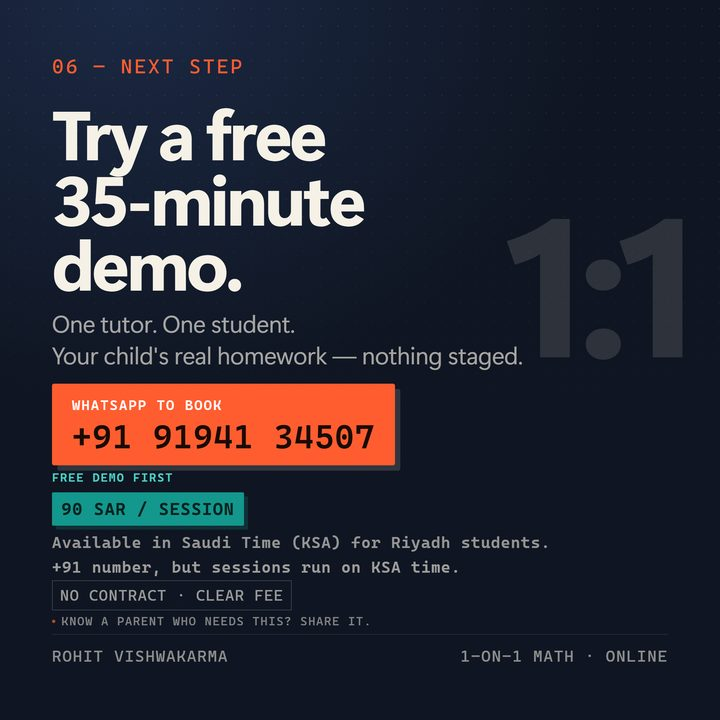
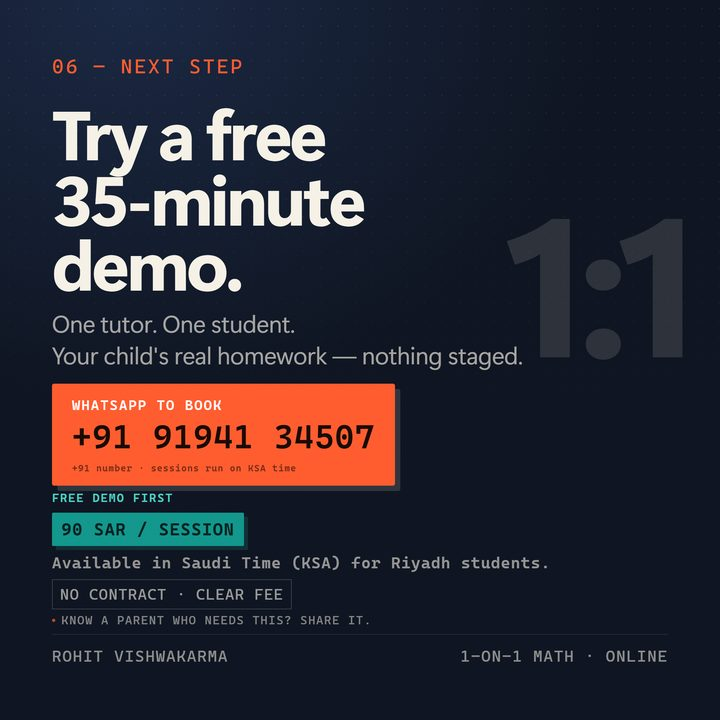
Move KSA phone note inside the WhatsApp CTA box

Changed region(s): [[0.0611, 0.6417, 0.7639, 0.8861]]

diff --git a/nextgen-creative-kit-riyadh-45.html b/nextgen-creative-kit-riyadh-45.html
@@ -781,11 +781,11 @@
           <div class="s6-cta">
             <div class="lbl">WHATSAPP TO BOOK</div>
             <div class="num">+91 91941 34507</div>
+            <div class="s6-phone-note">+91 number · sessions run on KSA time</div>
           </div>
           <div class="s6-free">FREE DEMO FIRST</div>
           <div class="s6-price">90 SAR / SESSION</div>
           <div class="s6-note-ksa">Available in Saudi Time (KSA) for Riyadh students.</div>
-          <div class="s6-phone-note">+91 number, but sessions run on KSA time.</div>
           <div class="risk"><span>NO CONTRACT · CLEAR FEE</span></div>
           <div class="s6-micro"><span>Know a parent who needs this? Share it.</span></div>
           <div class="foot"><span>ROHIT VISHWAKARMA</span><span>1-ON-1 MATH · ONLINE</span></div>
@@ -1425,6 +1425,7 @@
     letter-spacing:1.5px;color:#0F766E}
   .s6-phone-note{font-family:var(--mono);font-size:16px;letter-spacing:1.4px;font-weight:600;
     color:rgba(246,241,231,.62);margin-top:10px}
+  .s6-cta .s6-phone-note{color:rgba(24,10,4,.62);margin-top:4px;font-size:13px}
   .s6-price{display:inline-flex;align-items:center;align-self:flex-start;gap:12px;
     margin-top:18px;padding:12px 18px;border-radius:2px;background:var(--teal);
     color:#04211F;font-family:var(--mono);font-size:19px;font-weight:700;
@@ -1526,6 +1527,7 @@
   .s6-price{margin-top:12px}
   .s6-note-ksa{font-size:24px;letter-spacing:.9px;font-weight:600;margin-top:6px}
   .s6-phone-note{margin-top:4px}
+  .s6-cta .s6-phone-note{color:rgba(24,10,4,.62);font-size:14px}
 
   /* ---------- 4:5 portrait layout · 1080x1350 ---------- */
   .sq{width:1080px;height:1350px;padding:104px 88px}
@@ -1618,6 +1620,7 @@
   .s6 .risk span{font-size:28px;letter-spacing:1.1px;padding:10px 13px}
   .s6-micro span{font-size:22px;letter-spacing:1.4px}
   .s6-phone-note{font-size:28px;letter-spacing:.9px;font-weight:600}
+  .s6-cta .s6-phone-note{font-size:16px;color:rgba(24,10,4,.62)}
   .s6-price{font-size:32px;letter-spacing:1px}
   .s6-free{font-size:22px;letter-spacing:1.6px;font-weight:700}
   .s6-note-ksa{font-size:28px;letter-spacing:.9px;font-weight:600}

diff --git a/nextgen-creative-kit-riyadh.html b/nextgen-creative-kit-riyadh.html
@@ -781,11 +781,11 @@
           <div class="s6-cta">
             <div class="lbl">WHATSAPP TO BOOK</div>
             <div class="num">+91 91941 34507</div>
+            <div class="s6-phone-note">+91 number · sessions run on KSA time</div>
           </div>
           <div class="s6-free">FREE DEMO FIRST</div>
           <div class="s6-price">90 SAR / SESSION</div>
           <div class="s6-note-ksa">Available in Saudi Time (KSA) for Riyadh students.</div>
-          <div class="s6-phone-note">+91 number, but sessions run on KSA time.</div>
           <div class="risk"><span>NO CONTRACT · CLEAR FEE</span></div>
           <div class="s6-micro"><span>Know a parent who needs this? Share it.</span></div>
           <div class="foot"><span>ROHIT VISHWAKARMA</span><span>1-ON-1 MATH · ONLINE</span></div>
@@ -1425,6 +1425,7 @@
     letter-spacing:1.5px;color:#0F766E}
   .s6-phone-note{font-family:var(--mono);font-size:16px;letter-spacing:1.4px;font-weight:600;
     color:rgba(246,241,231,.62);margin-top:10px}
+  .s6-cta .s6-phone-note{color:rgba(24,10,4,.62);margin-top:4px;font-size:13px}
   .s6-price{display:inline-flex;align-items:center;align-self:flex-start;gap:12px;
     margin-top:18px;padding:12px 18px;border-radius:2px;background:var(--teal);
     color:#04211F;font-family:var(--mono);font-size:19px;font-weight:700;
@@ -1526,6 +1527,7 @@
   .s6-price{margin-top:12px}
   .s6-note-ksa{font-size:24px;letter-spacing:.9px;font-weight:600;margin-top:6px}
   .s6-phone-note{margin-top:4px}
+  .s6-cta .s6-phone-note{color:rgba(24,10,4,.62);font-size:14px}
 </style>
 <script>
 (function () {

diff --git a/nextgen-creative-kit-45.html b/nextgen-creative-kit-45.html
@@ -1493,6 +1493,7 @@
   .s6-price{margin-top:12px}
   .s6-note-ksa{font-size:24px;letter-spacing:.9px;font-weight:600;margin-top:6px}
   .s6-phone-note{margin-top:4px}
+  .s6-cta .s6-phone-note{color:rgba(24,10,4,.62);font-size:14px}
 
   /* ---------- 4:5 portrait layout · 1080x1350 ---------- */
   .sq{width:1080px;height:1350px;padding:104px 88px}
@@ -1585,6 +1586,7 @@
   .s6 .risk span{font-size:28px;letter-spacing:1.1px;padding:10px 13px}
   .s6-micro span{font-size:22px;letter-spacing:1.4px}
   .s6-phone-note{font-size:28px;letter-spacing:.9px;font-weight:600}
+  .s6-cta .s6-phone-note{font-size:16px;color:rgba(24,10,4,.62)}
   .s6-price{font-size:32px;letter-spacing:1px}
   .s6-free{font-size:22px;letter-spacing:1.6px;font-weight:700}
   .s6-note-ksa{font-size:28px;letter-spacing:.9px;font-weight:600}

diff --git a/nextgen-creative-kit.html b/nextgen-creative-kit.html
@@ -1493,6 +1493,7 @@
   .s6-price{margin-top:12px}
   .s6-note-ksa{font-size:24px;letter-spacing:.9px;font-weight:600;margin-top:6px}
   .s6-phone-note{margin-top:4px}
+  .s6-cta .s6-phone-note{color:rgba(24,10,4,.62);font-size:14px}
 </style>
 <script>
 (function () {

diff --git a/exports/make-riyadh-deck.py b/exports/make-riyadh-deck.py
@@ -26,6 +26,7 @@ rep("  /* ---------- MOBILE LEGIBILITY ---------- */",
     letter-spacing:1.5px;color:#0F766E}
   .s6-phone-note{font-family:var(--mono);font-size:16px;letter-spacing:1.4px;font-weight:600;
     color:rgba(246,241,231,.62);margin-top:10px}
+  .s6-cta .s6-phone-note{color:rgba(24,10,4,.62);margin-top:4px;font-size:13px}
   .s6-price{display:inline-flex;align-items:center;align-self:flex-start;gap:12px;
     margin-top:18px;padding:12px 18px;border-radius:2px;background:var(--teal);
     color:#04211F;font-family:var(--mono);font-size:19px;font-weight:700;
@@ -67,11 +68,11 @@ rep("""          <div class="s6-cta">
     """          <div class="s6-cta">
             <div class="lbl">WHATSAPP TO BOOK</div>
             <div class="num">+91 91941 34507</div>
+            <div class="s6-phone-note">+91 number · sessions run on KSA time</div>
           </div>
           <div class="s6-free">FREE DEMO FIRST</div>
           <div class="s6-price">90 SAR / SESSION</div>
           <div class="s6-note-ksa">Available in Saudi Time (KSA) for Riyadh students.</div>
-          <div class="s6-phone-note">+91 number, but sessions run on KSA time.</div>
           <div class="risk"><span>NO CONTRACT · CLEAR FEE</span></div>""",
     "slide 06 price + notes")
 

diff --git a/exports/make-carousel-45.py b/exports/make-carousel-45.py
@@ -107,6 +107,7 @@ TEXT_45 = """
   .s6 .risk span{font-size:28px;letter-spacing:1.1px;padding:10px 13px}
   .s6-micro span{font-size:22px;letter-spacing:1.4px}
   .s6-phone-note{font-size:28px;letter-spacing:.9px;font-weight:600}
+  .s6-cta .s6-phone-note{font-size:16px;color:rgba(24,10,4,.62)}
   .s6-price{font-size:32px;letter-spacing:1px}
   .s6-free{font-size:22px;letter-spacing:1.6px;font-weight:700}
   .s6-note-ksa{font-size:28px;letter-spacing:.9px;font-weight:600}
